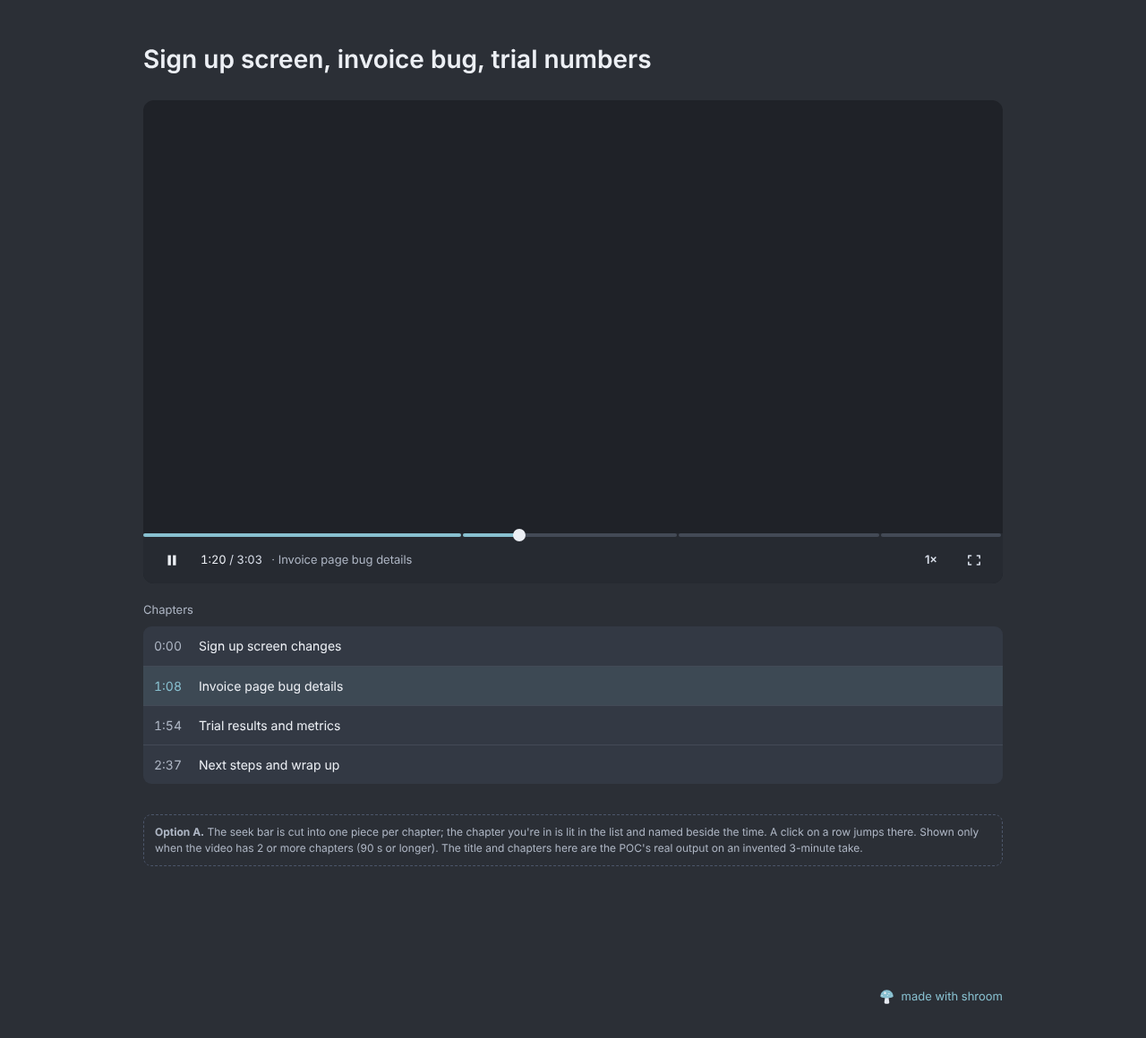
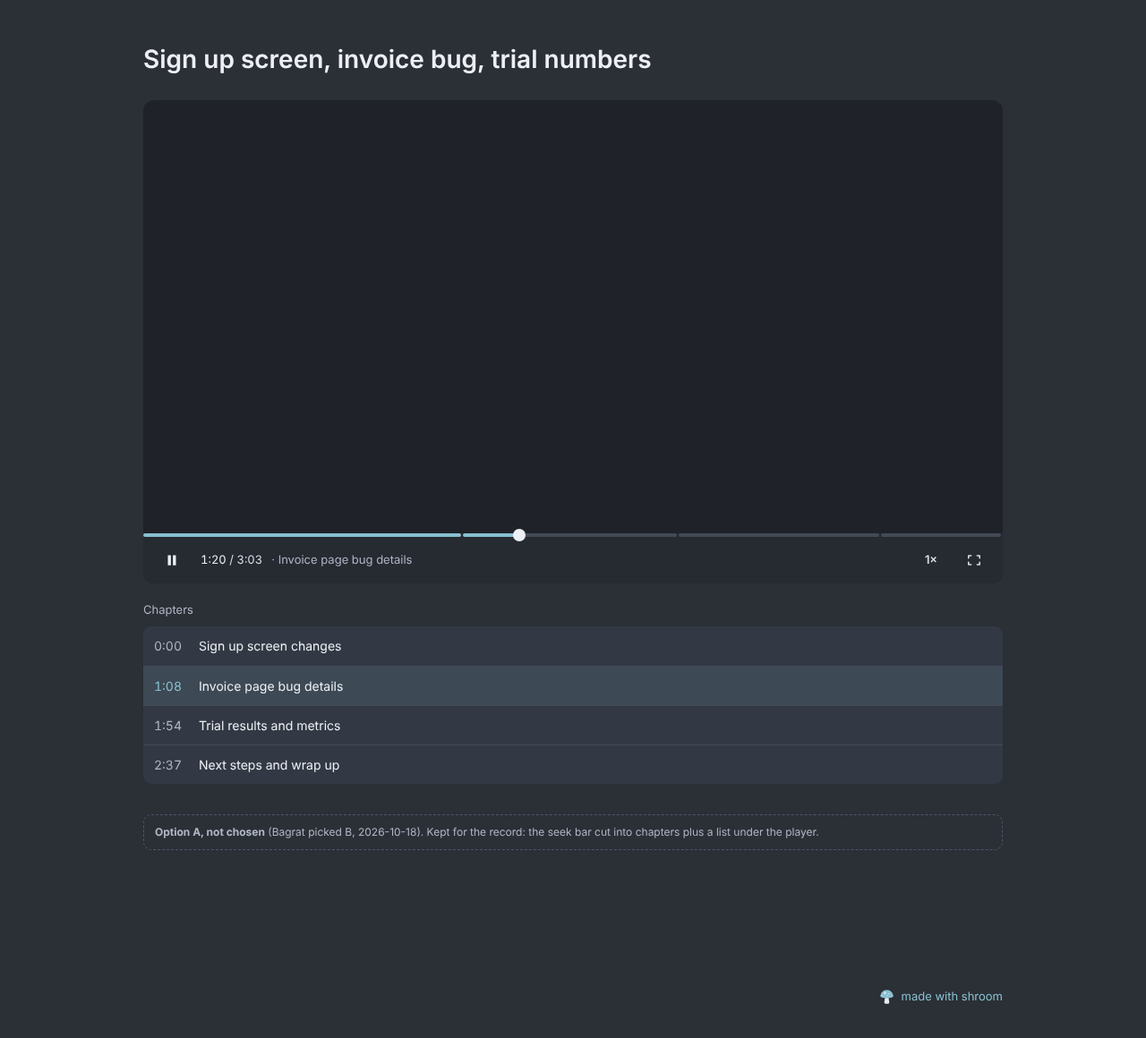
dev/proposals: AI titles and chapters, chapters in the seek bar (Bagrat, 2026-10-18)
The seek bar splits into chapter sections, named in a tip on hover; on a
phone the tip sits above the thumb while a finger is on the bar. No chapter
list. Boards updated and a phone board added.

Changed region(s): [[0.125, 0.7759, 0.75, 0.8379], [0.8125, 0.7759, 0.8438, 0.8069], [0.75, 0.7759, 0.7812, 0.8069]]

diff --git a/dev/proposals/ai-titles-chapters/boards/AiOwnerNamed.dc.html b/dev/proposals/ai-titles-chapters/boards/AiOwnerNamed.dc.html
@@ -27,7 +27,7 @@ a{color:#88c0d0}a:hover{color:#8fbcbb}
 <div style="background: #262a31; display: flex; flex-direction: column; flex: none">
 <div role="slider" tabindex="0" aria-label="Seek" aria-valuemin="0" aria-valuemax="183" aria-valuenow="0" aria-valuetext="0:00 of 3:03, Sign up screen changes" style="height: 16px; margin: -6px 0 -6px 0; display: flex; flex-direction: row; align-items: center; gap: 2px; position: relative">
 <div title="Sign up screen changes" style="width: calc(37.16% - 2px); height: 4px; border-radius: 2px; background: linear-gradient(to right, #88c0d0 0.0%, #434a56 0.0%); flex: none"></div><div title="Invoice page bug details" style="width: calc(25.14% - 2px); height: 4px; border-radius: 2px; background: linear-gradient(to right, #88c0d0 0.0%, #434a56 0.0%); flex: none"></div><div title="Trial results and metrics" style="width: calc(23.50% - 2px); height: 4px; border-radius: 2px; background: linear-gradient(to right, #88c0d0 0.0%, #434a56 0.0%); flex: none"></div><div title="Next steps and wrap up" style="width: calc(14.21% - 2px); height: 4px; border-radius: 2px; background: linear-gradient(to right, #88c0d0 0.0%, #434a56 0.0%); flex: none"></div>
-<div style="position: absolute; left: calc(0.00% - 7px); width: 14px; height: 14px; border-radius: 7px; background: #eceff4"></div>
+<div style="position: absolute; left: calc(0.00% - 7px); width: 14px; height: 14px; border-radius: 10px; background: #eceff4"></div>
 
 </div>
 <div style="height: 52px; padding: 0 10px; display: flex; flex-direction: row; align-items: center; gap: 4px; color: #d8dee9; font-size: 13px">
@@ -44,15 +44,8 @@ a{color:#88c0d0}a:hover{color:#8fbcbb}
 </div>
 </div>
 </div>
-<div style="display: flex; flex-direction: column; gap: 8px">
-<div style="color: #aeb6c4; font-size: 13px" data-said="page.chapters">Chapters</div>
-<div style="background: #333944; border-radius: 9px; display: flex; flex-direction: column; overflow: hidden"><button aria-current="true" style="font: inherit; min-height: 44px; padding: 0 12px; border: 0; background: rgba(136, 192, 208, 0.12); color: #eceff4; display: flex; flex-direction: row; align-items: center; gap: 14px; text-align: left">
-<span style="font-variant-numeric: tabular-nums; color: #88c0d0; width: 36px; flex: none">0:00</span><span style="flex: 1 1 0">Sign up screen changes</span></button><button aria-current="false" style="font: inherit; min-height: 44px; padding: 0 12px; border: 0; border-top: 1px solid #434a56; background: transparent; color: #eceff4; display: flex; flex-direction: row; align-items: center; gap: 14px; text-align: left">
-<span style="font-variant-numeric: tabular-nums; color: #aeb6c4; width: 36px; flex: none">1:08</span><span style="flex: 1 1 0">Invoice page bug details</span></button><button aria-current="false" style="font: inherit; min-height: 44px; padding: 0 12px; border: 0; border-top: 1px solid #434a56; background: transparent; color: #eceff4; display: flex; flex-direction: row; align-items: center; gap: 14px; text-align: left">
-<span style="font-variant-numeric: tabular-nums; color: #aeb6c4; width: 36px; flex: none">1:54</span><span style="flex: 1 1 0">Trial results and metrics</span></button><button aria-current="false" style="font: inherit; min-height: 44px; padding: 0 12px; border: 0; border-top: 1px solid #434a56; background: transparent; color: #eceff4; display: flex; flex-direction: row; align-items: center; gap: 14px; text-align: left">
-<span style="font-variant-numeric: tabular-nums; color: #aeb6c4; width: 36px; flex: none">2:37</span><span style="flex: 1 1 0">Next steps and wrap up</span></button></div>
-</div>
-<div style="margin-top: 14px; padding: 10px 12px; border: 1px dashed #4c566a; border-radius: 9px; color: #aeb6c4; font-size: 12px; line-height: 1.5">About 10–15 s after Stop, the title and chapters arrive (the take is heard while it records). Until then the title is today's (the date). A title the owner or member types always wins and is never written over; the line goes once the title is edited. Chapters can't be edited in v-next (an open question).</div>
+
+<div style="margin-top: 14px; padding: 10px 12px; border: 1px dashed #4c566a; border-radius: 9px; color: #aeb6c4; font-size: 12px; line-height: 1.5">About 10–15 s after Stop, the title and chapters arrive (the take is heard while it records), and the seek bar splits into chapters. Until then the title is today's (the date). A title the owner or member types always wins and is never written over; the line goes once the title is edited. Chapters can't be edited in the first cut.</div>
 </div>
 <div style="width: 100%; max-width: 960px; padding: 32px 0 0 0; display: flex; flex-direction: row; justify-content: flex-end">
 <a href="https://shroom.am" style="display: flex; flex-direction: row; align-items: center; gap: 8px; font-size: 13px; text-decoration: none; min-height: 44px"><svg viewBox="18 20 84 90" aria-hidden="true" style="width: 17px; height: 18px; display: block">
@@ -63,7 +56,7 @@ a{color:#88c0d0}a:hover{color:#8fbcbb}
 </div>
 </div>
 </x-dc>
-<script type="text/x-dc" data-dc-script data-props='{"$preview":{"width":1280,"height":1160}}'>
+<script type="text/x-dc" data-dc-script data-props='{"$preview":{"width":1280,"height":900}}'>
 class Component extends DCLogic {
 renderVals() {
 return {};

diff --git a/dev/proposals/ai-titles-chapters/boards/AiPageMarksPhone.dc.html b/dev/proposals/ai-titles-chapters/boards/AiPageMarksPhone.dc.html
@@ -1,0 +1,43 @@
+<!doctype html>
+<html lang="en">
+<head>
+<meta charset="utf-8">
+<title>shroom video page on a phone, chapters</title>
+<script src="./support.js"></script>
+</head>
+<body>
+<x-dc>
+<helmet>
+<style>
+body{margin:0}
+a{color:#88c0d0}a:hover{color:#8fbcbb}
+</style>
+</helmet>
+<div style="width: 390px; height: 844px; box-sizing: border-box; background: #2b2f36; padding: 28px 16px 24px 16px; display: flex; flex-direction: column; gap: 16px; font-family: -apple-system, BlinkMacSystemFont, system-ui, sans-serif; font-size: 14px; line-height: 1.5; color: #eceff4">
+<h1 style="margin: 0; font-size: 1.35rem; font-weight: 600; line-height: 1.25">Sign up screen, invoice bug, trial numbers</h1>
+<div style="width: 100%; aspect-ratio: 16 / 9; border-radius: 10px; background: #1f2228; display: flex; flex-direction: column; overflow: visible; position: relative">
+<div style="flex: 1 1 0"></div>
+<div style="background: #262a31; border-radius: 0 0 10px 10px; display: flex; flex-direction: column; flex: none">
+<div role="slider" tabindex="0" aria-label="Seek" aria-valuemin="0" aria-valuemax="183" aria-valuenow="122" aria-valuetext="2:02 of 3:03, Trial results and metrics" style="height: 16px; margin: -6px 0 -6px 0; display: flex; flex-direction: row; align-items: center; gap: 2px; position: relative">
+<div title="Sign up screen changes" style="width: calc(37.16% - 2px); height: 4px; border-radius: 2px; background: linear-gradient(to right, #88c0d0 100.0%, #434a56 100.0%); flex: none"></div><div title="Invoice page bug details" style="width: calc(25.14% - 2px); height: 4px; border-radius: 2px; background: linear-gradient(to right, #88c0d0 100.0%, #434a56 100.0%); flex: none"></div><div title="Trial results and metrics" style="width: calc(23.50% - 2px); height: 4px; border-radius: 2px; background: linear-gradient(to right, #88c0d0 18.6%, #434a56 18.6%); flex: none"></div><div title="Next steps and wrap up" style="width: calc(14.21% - 2px); height: 4px; border-radius: 2px; background: linear-gradient(to right, #88c0d0 0.0%, #434a56 0.0%); flex: none"></div>
+<div style="position: absolute; left: calc(66.67% - 10px); width: 20px; height: 20px; border-radius: 10px; background: #eceff4; box-shadow: 0 0 0 6px rgba(236, 239, 244, 0.18)"></div>
+<div style="position: absolute; left: 66.7%; bottom: 22px; transform: translateX(-50%); background: #1f2228; border: 1px solid #434a56; border-radius: 8px; padding: 6px 10px; white-space: nowrap; font-size: 13px; color: #eceff4"><span style="color: #aeb6c4; font-variant-numeric: tabular-nums">2:02</span>  Trial results and metrics</div>
+</div>
+<div style="height: 48px; padding: 0 6px; display: flex; flex-direction: row; align-items: center; gap: 2px; color: #d8dee9; font-size: 13px">
+<button aria-label="Pause" style="width: 44px; height: 44px; border: 0; background: transparent; display: flex; align-items: center; justify-content: center; flex: none"><svg viewBox="0 0 16 16" aria-hidden="true" style="width: 18px; height: 18px; fill: #eceff4; display: block"><path d="M4 3h3v10H4zM9 3h3v10H9z"></path></svg></button>
+<span style="font-variant-numeric: tabular-nums; white-space: nowrap"><span style="color: #eceff4">2:02</span> / 3:03</span>
+<span style="color: #aeb6c4; white-space: nowrap; overflow: hidden; text-overflow: ellipsis; min-width: 0; flex: 1 1 0; padding: 0 0 0 6px">· Trial results and metrics</span>
+<button aria-label="Full screen" style="width: 44px; height: 44px; border: 0; background: transparent; display: flex; align-items: center; justify-content: center; flex: none"><svg viewBox="0 0 16 16" aria-hidden="true" style="width: 18px; height: 18px; fill: none; stroke: #d8dee9; stroke-width: 1.4; stroke-linecap: round; stroke-linejoin: round; display: block"><path d="M2.5 6V3.5H5M11 3.5h2.5V6M13.5 10v2.5H11M5 12.5H2.5V10"></path></svg></button>
+</div></div></div>
+<div style="margin-top: 14px; padding: 10px 12px; border: 1px dashed #4c566a; border-radius: 9px; color: #aeb6c4; font-size: 12px; line-height: 1.5"><b>On a phone there's no hover.</b> A finger on the bar shows the time and chapter above the thumb, and the thumb grows while it's held. That happens while dragging, and for about 1.5 s after a tap. Lifting the finger seeks there. The bar's touch area is 44 px tall, though it looks 4 px. The chapter now playing is always named beside the time (cut short with … when long), so a phone viewer sees where they are without touching. No list anywhere, as on a laptop.</div>
+</div>
+</x-dc>
+<script type="text/x-dc" data-dc-script data-props='{"$preview":{"width":390,"height":844}}'>
+class Component extends DCLogic {
+renderVals() {
+return {};
+}
+}
+</script>
+</body>
+</html>

diff --git a/dev/proposals/ai-titles-chapters/boards/AiPageMarks.dc.html b/dev/proposals/ai-titles-chapters/boards/AiPageMarks.dc.html
@@ -2,7 +2,7 @@
 <html lang="en">
 <head>
 <meta charset="utf-8">
-<title>shroom video page, chapters in the bar only</title>
+<title>shroom video page, chapters in the seek bar</title>
 <script src="./support.js"></script>
 </head>
 <body>
@@ -21,7 +21,7 @@ a{color:#88c0d0}a:hover{color:#8fbcbb}
 <div style="background: #262a31; display: flex; flex-direction: column; flex: none">
 <div role="slider" tabindex="0" aria-label="Seek" aria-valuemin="0" aria-valuemax="183" aria-valuenow="80" aria-valuetext="1:20 of 3:03, Invoice page bug details" style="height: 16px; margin: -6px 0 -6px 0; display: flex; flex-direction: row; align-items: center; gap: 2px; position: relative">
 <div title="Sign up screen changes" style="width: calc(37.16% - 2px); height: 4px; border-radius: 2px; background: linear-gradient(to right, #88c0d0 100.0%, #434a56 100.0%); flex: none"></div><div title="Invoice page bug details" style="width: calc(25.14% - 2px); height: 4px; border-radius: 2px; background: linear-gradient(to right, #88c0d0 26.1%, #434a56 26.1%); flex: none"></div><div title="Trial results and metrics" style="width: calc(23.50% - 2px); height: 6px; border-radius: 2px; background: linear-gradient(to right, #88c0d0 0.0%, #434a56 0.0%); flex: none"></div><div title="Next steps and wrap up" style="width: calc(14.21% - 2px); height: 4px; border-radius: 2px; background: linear-gradient(to right, #88c0d0 0.0%, #434a56 0.0%); flex: none"></div>
-<div style="position: absolute; left: calc(43.72% - 7px); width: 14px; height: 14px; border-radius: 7px; background: #eceff4"></div>
+<div style="position: absolute; left: calc(43.72% - 7px); width: 14px; height: 14px; border-radius: 10px; background: #eceff4"></div>
 <div style="position: absolute; left: 66.7%; bottom: 18px; transform: translateX(-50%); background: #1f2228; border: 1px solid #434a56; border-radius: 7px; padding: 4px 9px; white-space: nowrap; font-size: 12px; color: #eceff4"><span style="color: #aeb6c4; font-variant-numeric: tabular-nums">2:02</span>  Trial results and metrics</div>
 </div>
 <div style="height: 52px; padding: 0 10px; display: flex; flex-direction: row; align-items: center; gap: 4px; color: #d8dee9; font-size: 13px">
@@ -39,7 +39,7 @@ a{color:#88c0d0}a:hover{color:#8fbcbb}
 </div>
 </div>
 
-<div style="margin-top: 14px; padding: 10px 12px; border: 1px dashed #4c566a; border-radius: 9px; color: #aeb6c4; font-size: 12px; line-height: 1.5"><b>Option B.</b> Nothing under the player: the bar's pieces are the chapters, and hovering one names it (a tap on a phone). Quieter, but a viewer can't see the list at a glance, and on a phone the names are hard to reach. The chapter you're in is named beside the time, as in A.</div>
+<div style="margin-top: 14px; padding: 10px 12px; border: 1px dashed #4c566a; border-radius: 9px; color: #aeb6c4; font-size: 12px; line-height: 1.5"><b>Chapters live in the seek bar</b> (Bagrat's pick, 2026-10-18). The bar is cut into one piece per chapter, 2 px apart. Hovering the bar, playing or paused, shows a tip with the time and the chapter's name at that point; the piece under the pointer grows a little. The chapter now playing is named beside the time. No list under the player. The keyboard: the bar's spoken value names the chapter (“1:20 of 3:03, Invoice page bug details”). Shown only when the video has 2 or more chapters (90 s or longer); otherwise the bar is whole, as today. Phones: the next board.</div>
 </div>
 <div style="width: 100%; max-width: 960px; padding: 32px 0 0 0; display: flex; flex-direction: row; justify-content: flex-end">
 <a href="https://shroom.am" style="display: flex; flex-direction: row; align-items: center; gap: 8px; font-size: 13px; text-decoration: none; min-height: 44px"><svg viewBox="18 20 84 90" aria-hidden="true" style="width: 17px; height: 18px; display: block">

diff --git a/dev/proposals/ai-titles-chapters/boards/AiPageChapters.dc.html b/dev/proposals/ai-titles-chapters/boards/AiPageChapters.dc.html
@@ -21,7 +21,7 @@ a{color:#88c0d0}a:hover{color:#8fbcbb}
 <div style="background: #262a31; display: flex; flex-direction: column; flex: none">
 <div role="slider" tabindex="0" aria-label="Seek" aria-valuemin="0" aria-valuemax="183" aria-valuenow="80" aria-valuetext="1:20 of 3:03, Invoice page bug details" style="height: 16px; margin: -6px 0 -6px 0; display: flex; flex-direction: row; align-items: center; gap: 2px; position: relative">
 <div title="Sign up screen changes" style="width: calc(37.16% - 2px); height: 4px; border-radius: 2px; background: linear-gradient(to right, #88c0d0 100.0%, #434a56 100.0%); flex: none"></div><div title="Invoice page bug details" style="width: calc(25.14% - 2px); height: 4px; border-radius: 2px; background: linear-gradient(to right, #88c0d0 26.1%, #434a56 26.1%); flex: none"></div><div title="Trial results and metrics" style="width: calc(23.50% - 2px); height: 4px; border-radius: 2px; background: linear-gradient(to right, #88c0d0 0.0%, #434a56 0.0%); flex: none"></div><div title="Next steps and wrap up" style="width: calc(14.21% - 2px); height: 4px; border-radius: 2px; background: linear-gradient(to right, #88c0d0 0.0%, #434a56 0.0%); flex: none"></div>
-<div style="position: absolute; left: calc(43.72% - 7px); width: 14px; height: 14px; border-radius: 7px; background: #eceff4"></div>
+<div style="position: absolute; left: calc(43.72% - 7px); width: 14px; height: 14px; border-radius: 10px; background: #eceff4"></div>
 
 </div>
 <div style="height: 52px; padding: 0 10px; display: flex; flex-direction: row; align-items: center; gap: 4px; color: #d8dee9; font-size: 13px">
@@ -46,7 +46,7 @@ a{color:#88c0d0}a:hover{color:#8fbcbb}
 <span style="font-variant-numeric: tabular-nums; color: #aeb6c4; width: 36px; flex: none">1:54</span><span style="flex: 1 1 0">Trial results and metrics</span></button><button aria-current="false" style="font: inherit; min-height: 44px; padding: 0 12px; border: 0; border-top: 1px solid #434a56; background: transparent; color: #eceff4; display: flex; flex-direction: row; align-items: center; gap: 14px; text-align: left">
 <span style="font-variant-numeric: tabular-nums; color: #aeb6c4; width: 36px; flex: none">2:37</span><span style="flex: 1 1 0">Next steps and wrap up</span></button></div>
 </div>
-<div style="margin-top: 14px; padding: 10px 12px; border: 1px dashed #4c566a; border-radius: 9px; color: #aeb6c4; font-size: 12px; line-height: 1.5"><b>Option A.</b> The seek bar is cut into one piece per chapter; the chapter you're in is lit in the list and named beside the time. A click on a row jumps there. Shown only when the video has 2 or more chapters (90 s or longer). The title and chapters here are the POC's real output on an invented 3-minute take.</div>
+<div style="margin-top: 14px; padding: 10px 12px; border: 1px dashed #4c566a; border-radius: 9px; color: #aeb6c4; font-size: 12px; line-height: 1.5"><b>Option A, not chosen</b> (Bagrat picked B, 2026-10-18). Kept for the record: the seek bar cut into chapters plus a list under the player.</div>
 </div>
 <div style="width: 100%; max-width: 960px; padding: 32px 0 0 0; display: flex; flex-direction: row; justify-content: flex-end">
 <a href="https://shroom.am" style="display: flex; flex-direction: row; align-items: center; gap: 8px; font-size: 13px; text-decoration: none; min-height: 44px"><svg viewBox="18 20 84 90" aria-hidden="true" style="width: 17px; height: 18px; display: block">

diff --git a/dev/proposals/ai-titles-chapters/boards/make-boards.py b/dev/proposals/ai-titles-chapters/boards/make-boards.py
@@ -54,8 +54,10 @@ DUR = 183
 CHAPTERS = [(0, "Sign up screen changes"), (68, "Invoice page bug details"), (114, "Trial results and metrics"), (157, "Next steps and wrap up")]
 mmss = lambda t: f"{t // 60}:{t % 60:02d}"
 
-def seekbar(now, marks, hover=None):
-    """The seek bar, cut into one segment per chapter (2 px gaps), played part lit."""
+def seekbar(now, marks, hover=None, scrub=False):
+    """The seek bar, cut into one segment per chapter (2 px gaps), played part lit. `hover`:
+    the chapter under the pointer, named in a tip; `scrub`: a finger dragging the thumb, the
+    time and chapter named above it."""
     segs = []
     for i, (s, t) in enumerate(CHAPTERS):
         e = CHAPTERS[i + 1][0] if i + 1 < len(CHAPTERS) else DUR
@@ -64,13 +66,17 @@ def seekbar(now, marks, hover=None):
         segs.append(f'<div title="{t}" style="width: calc({frac:.2f}% - 2px); height: {6 if hover == i else 4}px; border-radius: 2px; background: linear-gradient(to right, #88c0d0 {played:.1f}%, #434a56 {played:.1f}%); flex: none"></div>')
     knob = now / DUR * 100
     tip = ""
+    if scrub:
+        cur = [t for st, t in CHAPTERS if st <= now][-1]
+        tip = f'<div style="position: absolute; left: {knob:.1f}%; bottom: 22px; transform: translateX(-50%); background: #1f2228; border: 1px solid #434a56; border-radius: 8px; padding: 6px 10px; white-space: nowrap; font-size: 13px; color: #eceff4"><span style="color: #aeb6c4; font-variant-numeric: tabular-nums">{mmss(now)}</span>  {cur}</div>'
+
     if hover is not None:
         s, t = CHAPTERS[hover]
         left = (s + 8) / DUR * 100
         tip = f'<div style="position: absolute; left: {left:.1f}%; bottom: 18px; transform: translateX(-50%); background: #1f2228; border: 1px solid #434a56; border-radius: 7px; padding: 4px 9px; white-space: nowrap; font-size: 12px; color: #eceff4"><span style="color: #aeb6c4; font-variant-numeric: tabular-nums">{mmss(s + 8)}</span>  {t}</div>'
     return f'''<div role="slider" tabindex="0" aria-label="Seek" aria-valuemin="0" aria-valuemax="{DUR}" aria-valuenow="{now}" aria-valuetext="{mmss(now)} of {mmss(DUR)}, {CHAPTERS[[i for i,(s,_) in enumerate(CHAPTERS) if s <= now][-1]][1]}" style="height: 16px; margin: -6px 0 -6px 0; display: flex; flex-direction: row; align-items: center; gap: 2px; position: relative">
 {''.join(segs)}
-<div style="position: absolute; left: calc({knob:.2f}% - 7px); width: 14px; height: 14px; border-radius: 7px; background: #eceff4"></div>
+<div style="position: absolute; left: calc({knob:.2f}% - {10 if scrub else 7}px); width: {20 if scrub else 14}px; height: {20 if scrub else 14}px; border-radius: 10px; background: #eceff4{'; box-shadow: 0 0 0 6px rgba(236, 239, 244, 0.18)' if scrub else ''}"></div>
 {tip}
 </div>'''
 
@@ -133,23 +139,42 @@ def video_page(h1, inner_after, now, hover=None, owner_title=None, chapter_label
 
 boards = {}
 
-# 1. The page, chapters listed under the player and cut into its bar (option A).
+# 1. The page, chapters listed under the player and cut into its bar (option A, not chosen).
 boards["AiPageChapters.dc.html"] = (
-    "The page — chapters, A: listed under the player and cut into its bar (a proposal, for Bagrat; words are drafts)", 1280, 1160,
+    "The page — chapters, A: listed under the player and cut into its bar (not chosen: Bagrat picked B, 2026-10-18)", 1280, 1160,
     page("shroom video page, chapters under the player", 1280, 1160, video_page(TITLE, chapter_list(80), 80,
-        extra_note=note("<b>Option A.</b> The seek bar is cut into one piece per chapter; the chapter you're in is lit in the list and named beside the time. A click on a row jumps there. Shown only when the video has 2 or more chapters (90 s or longer). The title and chapters here are the POC's real output on an invented 3-minute take."))))
+        extra_note=note("<b>Option A, not chosen</b> (Bagrat picked B, 2026-10-18). Kept for the record: the seek bar cut into chapters plus a list under the player."))))
 
-# 2. The page, chapters only in the bar, named on hover (option B).
+# 2. The page, chapters in the bar, named on hover (option B, chosen).
 boards["AiPageMarks.dc.html"] = (
-    "The page — chapters, B: only in the bar, named on hover (a proposal, for Bagrat)", 1280, 900,
-    page("shroom video page, chapters in the bar only", 1280, 900, video_page(TITLE, "", 80, hover=2,
-        extra_note=note("<b>Option B.</b> Nothing under the player: the bar's pieces are the chapters, and hovering one names it (a tap on a phone). Quieter, but a viewer can't see the list at a glance, and on a phone the names are hard to reach. The chapter you're in is named beside the time, as in A."))))
+    "The page — chapters in the seek bar, named on hover (B, Bagrat's pick, 2026-10-18; words are drafts)", 1280, 900,
+    page("shroom video page, chapters in the seek bar", 1280, 900, video_page(TITLE, "", 80, hover=2,
+        extra_note=note("<b>Chapters live in the seek bar</b> (Bagrat's pick, 2026-10-18). The bar is cut into one piece per chapter, 2 px apart. Hovering the bar, playing or paused, shows a tip with the time and the chapter's name at that point; the piece under the pointer grows a little. The chapter now playing is named beside the time. No list under the player. The keyboard: the bar's spoken value names the chapter (\u201c1:20 of 3:03, Invoice page bug details\u201d). Shown only when the video has 2 or more chapters (90 s or longer); otherwise the bar is whole, as today. Phones: the next board."))))
+
+# 2b. The same on a phone: no hover, so a finger on the bar names the chapter.
+def phone_body(now):
+    cur = [t for st, t in CHAPTERS if st <= now][-1]
+    return f'''<div style="width: 390px; height: 844px; box-sizing: border-box; background: #2b2f36; padding: 28px 16px 24px 16px; display: flex; flex-direction: column; gap: 16px; font-family: {FONT}; font-size: 14px; line-height: 1.5; color: #eceff4">
+<h1 style="margin: 0; font-size: 1.35rem; font-weight: 600; line-height: 1.25">{TITLE}</h1>
+<div style="width: 100%; aspect-ratio: 16 / 9; border-radius: 10px; background: #1f2228; display: flex; flex-direction: column; overflow: visible; position: relative">
+<div style="flex: 1 1 0"></div>
+<div style="background: #262a31; border-radius: 0 0 10px 10px; display: flex; flex-direction: column; flex: none">
+{seekbar(now, True, scrub=True)}
+<div style="height: 48px; padding: 0 6px; display: flex; flex-direction: row; align-items: center; gap: 2px; color: #d8dee9; font-size: 13px">
+<button aria-label="Pause" style="width: 44px; height: 44px; border: 0; background: transparent; display: flex; align-items: center; justify-content: center; flex: none"><svg viewBox="0 0 16 16" aria-hidden="true" style="width: 18px; height: 18px; fill: #eceff4; display: block"><path d="M4 3h3v10H4zM9 3h3v10H9z"></path></svg></button>
+<span style="font-variant-numeric: tabular-nums; white-space: nowrap"><span style="color: #eceff4">{mmss(now)}</span> / {mmss(DUR)}</span>
+<span style="color: #aeb6c4; white-space: nowrap; overflow: hidden; text-overflow: ellipsis; min-width: 0; flex: 1 1 0; padding: 0 0 0 6px">· {cur}</span>
+<button aria-label="Full screen" style="width: 44px; height: 44px; border: 0; background: transparent; display: flex; align-items: center; justify-content: center; flex: none"><svg viewBox="0 0 16 16" aria-hidden="true" style="width: 18px; height: 18px; fill: none; stroke: #d8dee9; stroke-width: 1.4; stroke-linecap: round; stroke-linejoin: round; display: block"><path d="M2.5 6V3.5H5M11 3.5h2.5V6M13.5 10v2.5H11M5 12.5H2.5V10"></path></svg></button>
+</div></div></div>
+{note("<b>On a phone there's no hover.</b> A finger on the bar shows the time and chapter above the thumb, and the thumb grows while it's held. That happens while dragging, and for about 1.5 s after a tap. Lifting the finger seeks there. The bar's touch area is 44 px tall, though it looks 4 px. The chapter now playing is always named beside the time (cut short with … when long), so a phone viewer sees where they are without touching. No list anywhere, as on a laptop.")}
+</div>'''
+boards["AiPageMarksPhone.dc.html"] = ("The page on a phone — chapters in the seek bar, named while a finger is on it (a proposal; words are drafts)", 390, 844, page("shroom video page on a phone, chapters", 390, 844, phone_body(122)))
 
 # 3. The owner's page once the title has come in.
 boards["AiOwnerNamed.dc.html"] = (
-    "The page — the owner's, named for you (a proposal, for Bagrat; words are drafts)", 1280, 1160,
-    page("shroom video page, owner, named", 1280, 1160, video_page(TITLE, chapter_list(0), 0, owner_title=TITLE,
-        extra_note=note("About 10–15 s after Stop, the title and chapters arrive (the take is heard while it records). Until then the title is today's (the date). A title the owner or member types always wins and is never written over; the line goes once the title is edited. Chapters can't be edited in v-next (an open question)."))))
+    "The page — the owner's, named for you (a proposal, for Bagrat; words are drafts)", 1280, 900,
+    page("shroom video page, owner, named", 1280, 900, video_page(TITLE, "", 0, owner_title=TITLE,
+        extra_note=note("About 10–15 s after Stop, the title and chapters arrive (the take is heard while it records), and the seek bar splits into chapters. Until then the title is today's (the date). A title the owner or member types always wins and is never written over; the line goes once the title is edited. Chapters can't be edited in the first cut."))))
 
 # 4. Settings · Space: the switch and its one cost line.
 def settings_body():
@@ -204,14 +229,16 @@ def offer_body():
 boards["AiOffer.dc.html"] = ("Library — the one-time offer: name your videos and add chapters (a proposal, for Bagrat; words are drafts)", 760, 560, page("shroom Library, AI offer", 760, 560, offer_body()))
 
 X = 11600
-place = [("AiOffer.dc.html", 0), ("AiSettings.dc.html", 700), ("AiOwnerNamed.dc.html", 1540), ("AiPageChapters.dc.html", 2840), ("AiPageMarks.dc.html", 4140)]
+place = [("AiOffer.dc.html", 0), ("AiSettings.dc.html", 700), ("AiOwnerNamed.dc.html", 1540), ("AiPageMarks.dc.html", 2560), ("AiPageMarksPhone.dc.html", 3580), ("AiPageChapters.dc.html", 4540)]
 canvas_path = os.path.join(out, "canvas.json")
-canvas = json.load(open(canvas_path))
+raw = open(canvas_path).read()
+indent = len(raw.split("\n")[1]) - len(raw.split("\n")[1].lstrip()) or 1  # keep the file's own indent
+canvas = json.loads(raw)
 for name, y in place:
     title, w, h, html = boards[name]
     open(os.path.join(out, name), "w").write(html)
     canvas["boards"][name] = {"h": h, "radius": 12, "title": title, "w": w, "x": X, "y": y}
     if name not in canvas["order"]:
         canvas["order"].append(name)
-json.dump(canvas, open(canvas_path, "w"), ensure_ascii=False, indent=1)
+json.dump(canvas, open(canvas_path, "w"), ensure_ascii=False, indent=indent)
 print("wrote", ", ".join(n for n, _ in place))

diff --git a/dev/proposals/ai-titles-chapters.md b/dev/proposals/ai-titles-chapters.md
@@ -32,8 +32,8 @@ product shape, the words and the spec rows are Bagrat's call. The POC is
    **`@cf/openai/gpt-oss-120b`** to name, with `@cf/google/gemma-4-26b-a4b-it` as the
    fallback. Hard rules sit on top in code: chapters snap to sentence starts, are ≥ 20 s
    long, start at 0:00, and appear only on videos of 90 s or more. A title someone types
-   always wins. Chapters show **under the player and cut into its bar** (option A on the
-   canvas).
+   always wins. Chapters live **in the seek bar**, split into one section per chapter
+   and named in a tip on hover, as Bagrat chose on 2026-10-18 (§9.1).
 6. **Nothing new on Cloudflare's side** (B171, live check 2). Turning it on redeploys the
    space's Worker with an `ai` binding. Members hold no AI key and never see a cost.
 
@@ -304,8 +304,9 @@ it's still unmeasured (§1.7).
    audio bytes.
 2. **Name with gpt-oss-120b**, with gemma-4 as the fallback on an error or an empty
    answer. Use one call: title plus chapters. Code holds the rules (§3).
-3. **Show chapters under the player and cut into its bar** (canvas option A), only when
-   there are 2 or more.
+3. **Show chapters in the seek bar** (Bagrat, 2026-10-18): one section per chapter, a
+   tip with the time and name on hover, and on a phone the same above the thumb while a
+   finger is on the bar. Only when there are 2 or more chapters.
 4. **Store everything beside the take** (`rec/<id>/ai/…`), deleted with it. The record
    keeps today's `titled` flag: an AI title fills the title only while `titled` is
    false, and typing one sets it as today.
@@ -343,8 +344,19 @@ Said-lines are drafts, copy for Bagrat.
   `page-owner.named-from-what-you-said` "Named from what you said. Click the title to
   change it."
 - **N-ai-4 — Chapters.** After Stop, on a take of 90 s or more with 2 or more chapters,
-  the Worker writes `rec/<id>/ai/chapters.vtt`. The page shows them as option A or B.
-  Viewers need no account, as today. *Said:* `page.chapters` "Chapters". The same step
+  the Worker writes `rec/<id>/ai/chapters.vtt`. The page splits its seek bar into one
+  section per chapter, 2 px apart.
+  - **Hover** (laptop): a tip at the pointer gives the time and the chapter's name, and
+    the section under the pointer grows a little.
+  - **Touch** (phone): while a finger drags the thumb, and for ~1.5 s after a tap, the
+    same tip sits above the thumb, and the thumb grows. Lifting seeks. The bar's touch
+    area is 44 px tall.
+  - **Always:** the chapter now playing is named after the time (`1:20 / 3:03 · Invoice
+    page bug details`, cut short with … when long).
+  - **Keyboard and VoiceOver:** the bar's spoken value names the chapter.
+
+  There is no chapter list. Viewers need no account, as today. A take with fewer than 2
+  chapters keeps today's whole bar. The same step
   writes `rec/<id>/ai/captions.vtt`, a captions track the player offers (off until a
   viewer turns it on).
 - **N-ai-5 — The free day runs out.** A Workers AI refusal for the daily allocation marks
@@ -366,8 +378,9 @@ new column right of the editor's boards (x = 11600). PNGs are in
 - **Library — the one-time offer** (`AiOffer`)
 - **Settings — Space: Name videos and add chapters, off and on** (`AiSettings`)
 - **The page — the owner's, named for you** (`AiOwnerNamed`)
-- **The page — chapters, A: listed under the player and cut into its bar** (`AiPageChapters`)
-- **The page — chapters, B: only in the bar, named on hover** (`AiPageMarks`)
+- **The page — chapters in the seek bar, named on hover** (`AiPageMarks`), Bagrat's pick
+- **The page on a phone — chapters in the seek bar, named while a finger is on it** (`AiPageMarksPhone`)
+- **The page — chapters, A: listed under the player** (`AiPageChapters`), not chosen, kept for the record
 
 The titles and chapters on the boards are the POC's real output on the invented
 walkthrough.
@@ -377,10 +390,14 @@ walkthrough.
 The POC needed an answer to each question below, so each one is decided here, with its
 alternative, as a recommendation. All of them are Bagrat's to ratify or overturn.
 
-1. **Chapters show as option A**, a list under the player plus the seek bar cut into
-   chapters. Decided because a list is readable at a glance and reachable on a phone.
-   B (the bar only, named on hover) hides the names behind hover. B stays on the canvas
-   for comparison.
+1. **Chapters live in the seek bar: ruled by Bagrat on 2026-10-18.** He chose the bar
+   split into chapter sections, with a tip naming the chapter on hover while the video
+   plays. That is option B; option A (a list under the player) is dropped. For phones,
+   which have no hover, the call made here: a finger on the bar shows the same tip above
+   the thumb (while dragging, and briefly after a tap). The current chapter is always
+   named after the time, so a phone viewer knows where they are without touching. No list
+   anywhere. The alternative was a list on phones only; it was left out to keep one
+   design everywhere.
 2. **Name with gpt-oss-120b, falling back to gemma-4.** Decided because it gave the best
    titles in 3 of 3 takes, at ~$0.007 an hour, under a fifth of the total. gemma-4 is
    ~4× cheaper and faster, and nearly as good: it is the fallback, and the obvious
